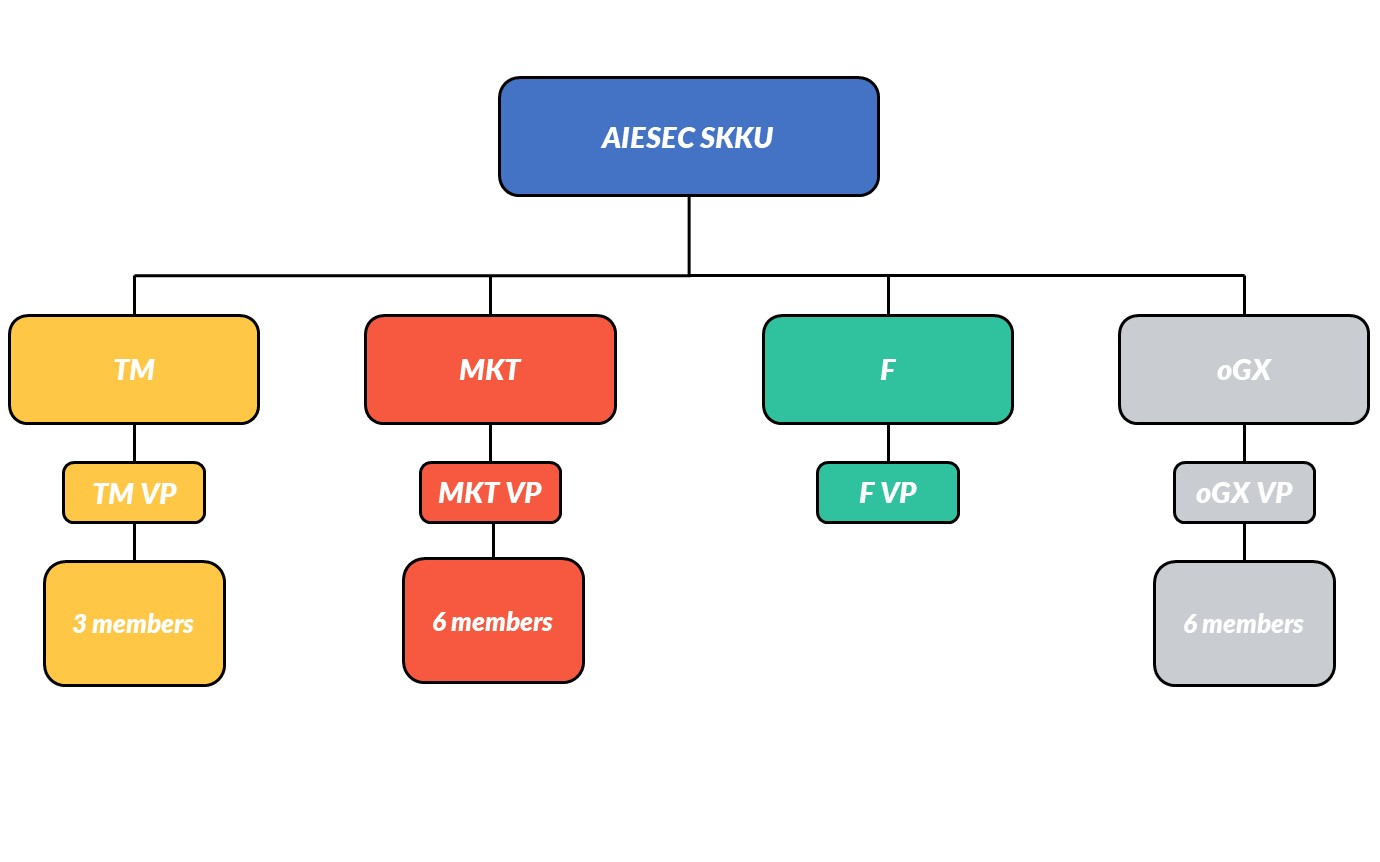
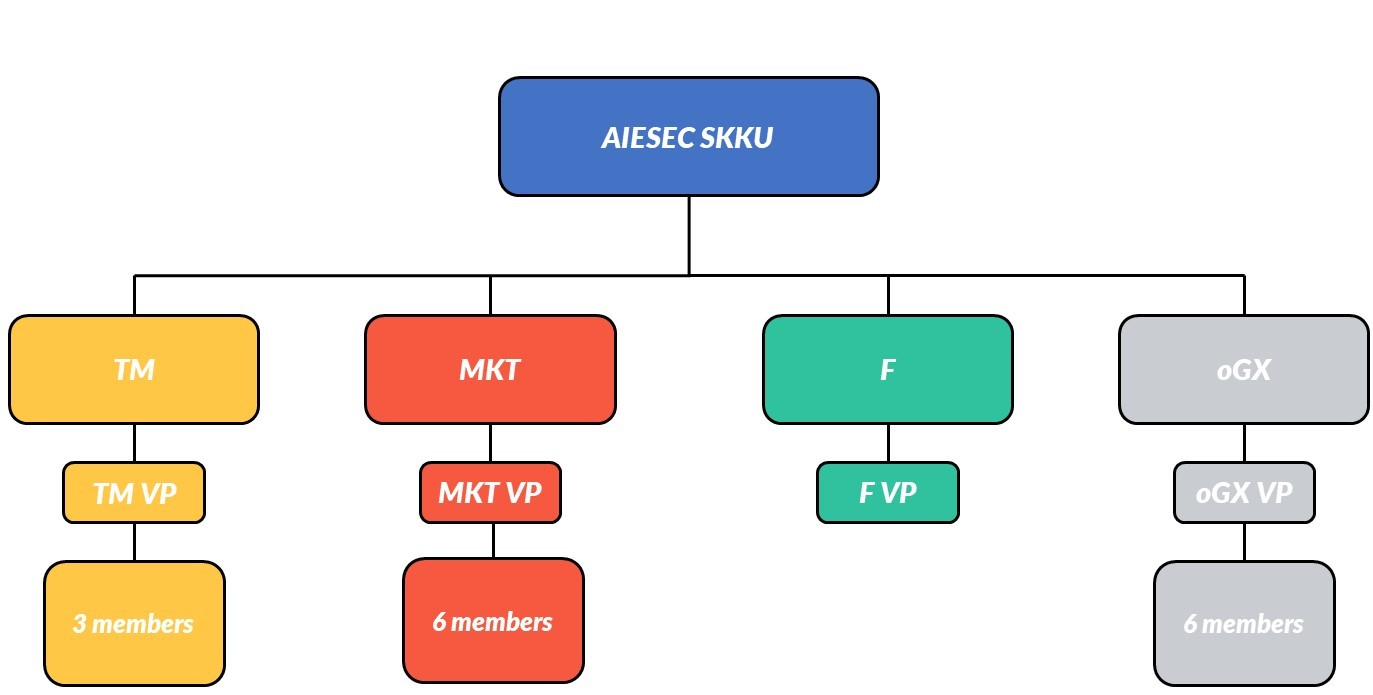
6com

Changed region(s): [[0.0, 0.3626, 1.0, 0.9971], [0.0918, 0.0906, 0.9177, 0.3324]]

diff --git a/structure.html.html b/structure.html.html
@@ -65,12 +65,9 @@
 					<div>
 						<h2> 💡 AIESEC SKKU 2021 Term의 네 부서의 연관성에 대해 단계별로 보다 쉽게 소개해드립니다! </h2>
 					<span>
-					<h4>	➊ 🌍 해외교류중개부서(oGX) </h4> 
-					<span>
-						<img src="oGX.JPG" align="right"  width=300px>
-					</span>
-						<b><mark>oGX = Outgoing Global eXcahnge</mark></b> <br>
-	
+						<h4> ➊ 🌍 해외교류중개부서(oGX) </h4>
+						<img src="oGX.JPG" align="right"  width=300px> 
+						<b><mark >oGX = Outgoing Global eXcahnge</mark></b> <br>
 					</span>
 					<p> &nbsp &nbsp &nbsp &nbsp &nbsp &nbsp
 					AIESEC SKKU 2021 Term의 유일한 Front Office 부서인 <b>oGX</b>는
@@ -87,7 +84,7 @@
 						<span>
 						<h4>➋ 📈 재무관리부서(F&L)  </h4>
 						<span>
-							<img src="f.JPG" align="right" width=30% height= 30%>
+							<img src="f.JPG" align="right" width=300px>
 						</span>
 							<b><mark>F&L = Finance & Legislation</mark></b>  <br>
 
@@ -105,7 +102,7 @@
 						<span>
 						<h4>➌ 📢 홍보전략부서(MKT) </h4> 
 						<span>
-							<img src="MKT.JPG" align="right" width=30% height= 30%>
+							<img src="MKT.JPG" align="right" width=300px>
 						</span>
 						<b><mark>MKT = Marketing</mark>  </b> 
 							<br>
@@ -121,7 +118,7 @@
 						<span>
 							<h4>➍ 👥 인재관리부서(TM) </h4> 
 							<span>
-								<img src="TM.JPG" align="right" width=30% height= 30%>
+								<img src="TM.JPG" align="right" width=300px>
 							</span>
 							<span>
 							<b><mark>TM = Talent Management</mark> </b><br>
@@ -137,10 +134,10 @@
 						&nbsp &nbsp 🔍	주요 업무: 신입멤버 리쿠르팅, AIESEC SKKU의 멤버 관리/교육, 동아리 전체 모임 기획
 						</p>
 						<p style="text-align: center;">
-						<img src = "stru.jpg" width=60% height= 60%>
-						▲ AIESEC SKKU의 구조도
-					<br> ※조직도에 있는 인원수는 리쿠르팅 현황에 따라 조정될 수 있습니다.
-				</p>
+							<img src = "stru.jpg" width=80% height= 80%>
+							▲ AIESEC SKKU의 구조도
+							<br> ※조직도에 있는 인원수는 리쿠르팅 현황에 따라 조정될 수 있습니다.
+						</p>
 					</div>
 				<div class="inner" style = "color:black">
 					<br><h3> ❖ 정리하면! </h3>

diff --git a/recruiting.html.html b/recruiting.html.html
@@ -83,11 +83,10 @@
 							</span>
 							 </p>
 							 <p>AIESEC SKKU의 공식 SNS채널인 인스타그램(aiesec_skku)과 페이스북(AIESEC SKKU)에 리쿠르팅과 관련된 게시글이 업로드 될 예정입니다. 많은 관심 부탁드립니다.</p>
-						 	
-							 <div>  &nbsp &nbsp<a href="https://aiesec.org/" ><img src="water.png" width=5% height= 5% align="left" ></a><br><br>
-								<p> &nbsp &nbsp &nbsp &nbsp &nbsp &nbsp &nbsp &nbsp AIESECer가 되고 싶다면<br>
-									&nbsp &nbsp &nbsp &nbsp  &nbsp ◀ 망설이지 말고 지원하세요!(AIESEC의 상징인 블루맨_Blueman을 누르면 자동으로 구글폼으로 연동됩니다.)</p>
-							</div><br>
+							
+							 <p class="align-center">  &nbsp &nbsp<a href="https://aiesec.org/" ><img src="apply.PNG" width=70% align="center" ></a><br>
+								▲ AIESECer가 되고 싶다면 망설이지 말고 지원하세요!<br>
+							 </p><br>
 						</ul>
 					</div>
 
